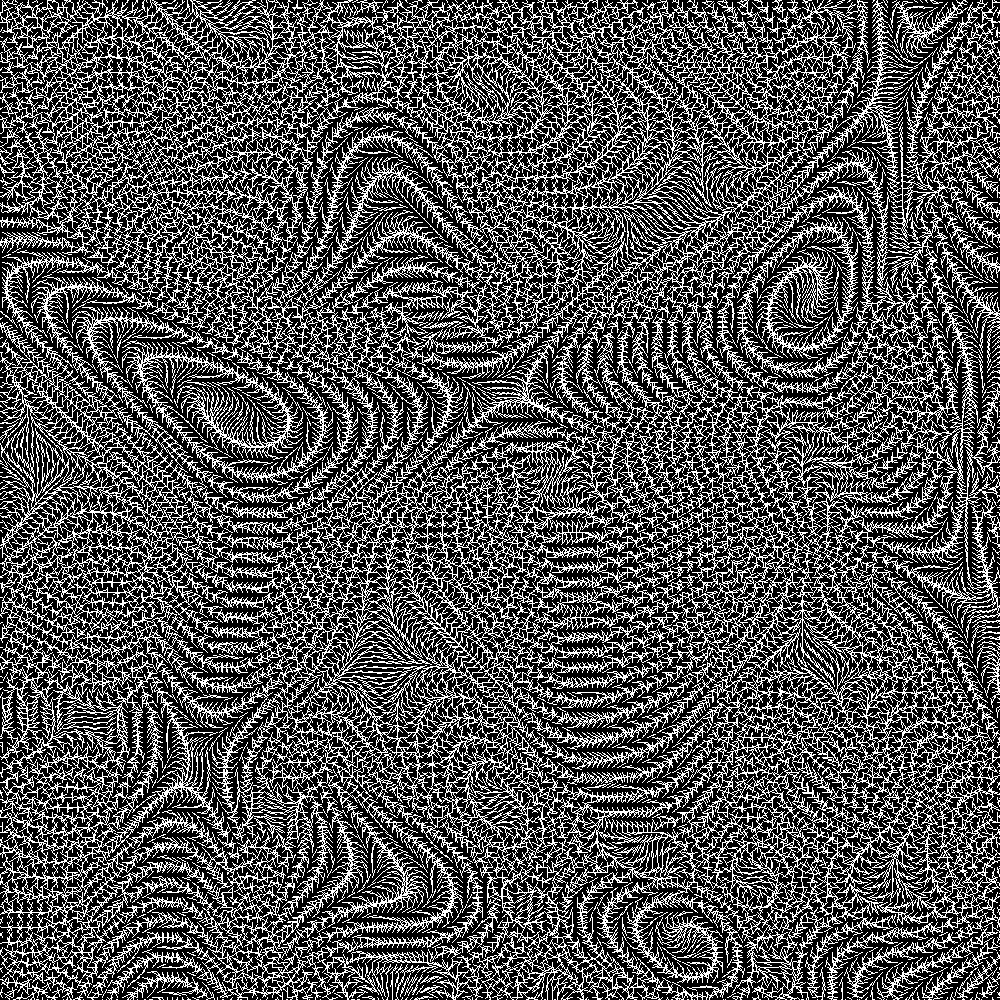
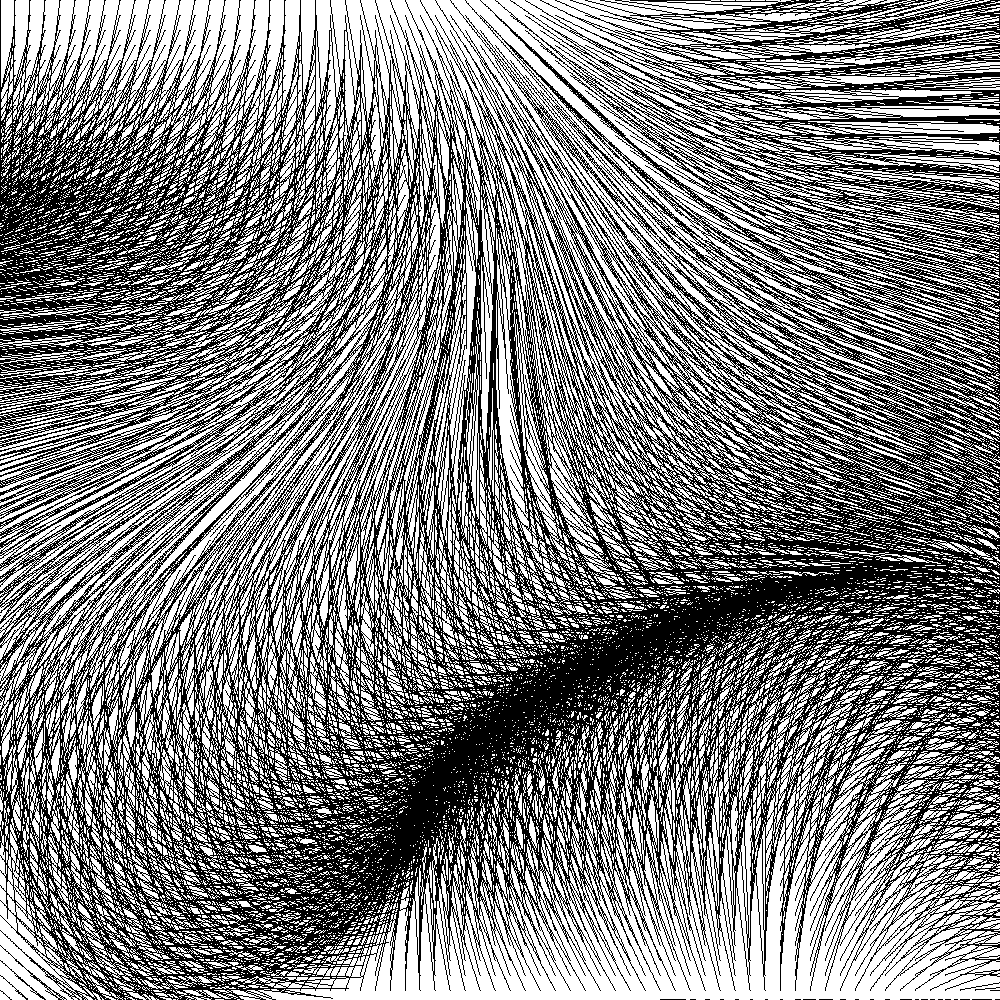
Need to add curve implementation

diff --git a/main.py b/main.py
@@ -3,58 +3,65 @@
     Author: Aidin Lehrman
 
     https://tylerxhobbs.com/essays/2020/flow-fields
-    https://eev.ee/blog/2016/05/29/perlin-noise/
+    https://github.com/pvigier/perlin-numpy
 """
 
 from math import cos, floor, sin
-import random
+import math
 import numpy as np
-import matplotlib.pyplot as plt
+import matplotlib.pyplot as plt # pylint: disable=import-error
+from perlin_numpy import generate_perlin_noise_2d # pylint: disable=import-error
 from Vector2 import Ray2, Vector2 # pylint: disable=unused-import
-from perlin_numpy import generate_fractal_noise_2d
 
-def render(resolution: int, image_height: int, image_width: int, \
-    vector_length: float = 100, save_to_file: str='image.png') -> None:
-    """ Renders scene
+def render_rays(image_height: int, image_width: int, cells_tall: int, cells_wide: int, \
+                ray_list: list[list[Ray2]], curve_length: float = 10, save_to_file: str='image.png') -> None:
+    """ Renderes scene
     """
-
     # Initializes Image
-    image = np.zeros((image_height, image_width, 3))
+    image = np.ones((image_height, image_width, 3))
 
-    cells_tall: int = floor(image_height / resolution)
-    cells_wide: int = floor(image_width / resolution)
-
-    noise = generate_fractal_noise_2d((image_height, image_width), (8, 8))
+    # Works Reguardless of grid or no grid (can be used on random values too)
     
-    grid: list[list[Ray2]] = [[Ray2(Vector2(0, 0), Vector2(0, 0)) for _ in range(cells_wide)] \
-        for _ in range(cells_tall)]
-    for j in range(cells_tall):  # For each row
-        for i in range(cells_wide):  # For each column
-            rand_angle: float = noise[i][j] * 360
-            point: Vector2 = Vector2((resolution / 2) + (resolution * i), \
-                (resolution / 2) + (resolution * j))
-            rand_x: float = vector_length * sin(rand_angle)
-            rand_y: float = vector_length * cos(rand_angle)
+            
+                # This draws lines, need to make it draw curves
+                if 0 <= x < image_width and 0 <= y < image_height:
+                    image[floor(pixel.y)][floor(pixel.x)] = np.clip([0], 0, 1)
+
+    plt.imsave(save_to_file, image)  # Saves image
+
+def generate_rays(step_length: int, noise_scale: float, image_height: int, image_width: int) \
+    -> list[list[Ray2]]:
+    """ Generates Rays
+    """
+    cells_tall: int = floor(image_height / step_length)
+    cells_wide: int = floor(image_width / step_length)
+
+    # Generate noise with dimensions matching the grid
+    np.random.seed(0)
+    noise = generate_perlin_noise_2d((image_height, image_width), (8, 8))
+
+    grid: list[list[Ray2]] = [[Ray2(Vector2(0, 0), Vector2(0, 0)) for _ in range(cells_wide + 1)] \
+        for _ in range(cells_tall + 1)]
+
+    for j in range(cells_tall + 1):  # For each row
+        for i in range(cells_wide + 1):  # For each column
+            point: Vector2 = Vector2(step_length * i, step_length * j)
+            rand_angle: float = noise[floor(point.y * noise_scale)][floor(point.x * noise_scale)] \
+                * 2 * math.pi # Radians
+            rand_x: float = sin(rand_angle)
+            rand_y: float = cos(rand_angle)
             rand_ray: Ray2 = Ray2(point, Vector2(rand_x, rand_y))
             grid[j][i] = rand_ray
 
-    # Works Reguardless of grid or no grid (can be used on random values too)
-    for row in grid:
-        for cell in row:
-            step_length: int = 1
-            for length in range(0, floor(vector_length), step_length):
-                pixel: Vector2 = cell.point_at(length)
-                # Manually set the pixel to a color
-                x, y = int(pixel.x), int(pixel.y)
-                if 0 <= x < image_width and 0 <= y < image_height:
-                    image[floor(pixel.y)][floor(pixel.x)] = np.clip([1], 0, 1)
-
-    plt.imsave(save_to_file, image)  # Saves image
+    return grid
 
 def main() -> None:
     """ Main
     """
-    render(5, 1000, 1000, 10)
+    image_height: int = 1000
+    image_width: int = 1000
+    rays: list[list[Ray2]] = generate_rays(15, 0.1, image_height, image_width)
+    render_rays(image_height, image_width, rays, 200, 'image.png')
 
 if __name__ == '__main__':
     main()
